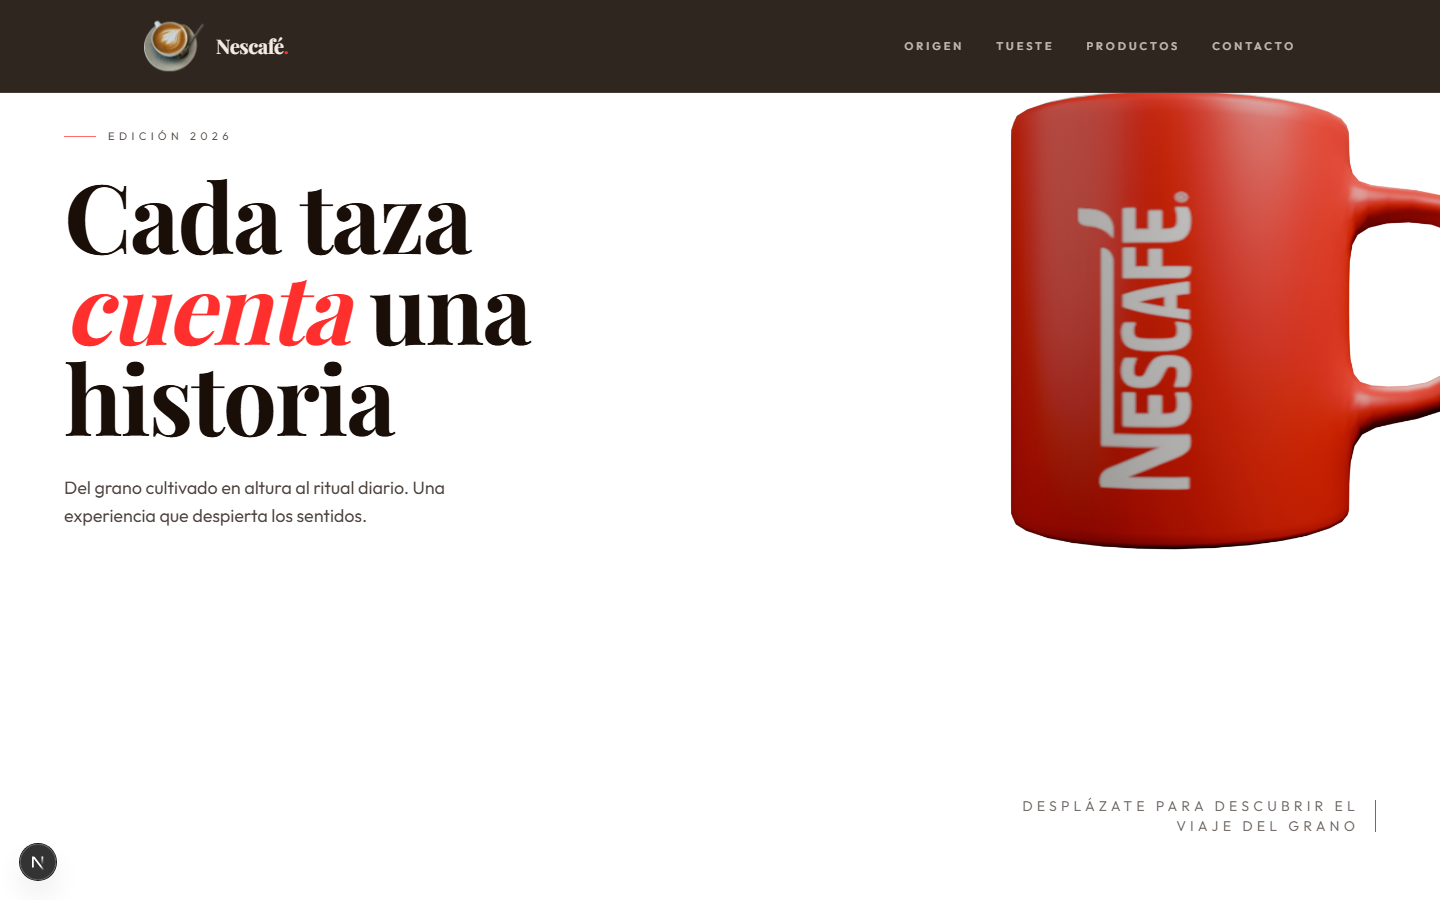
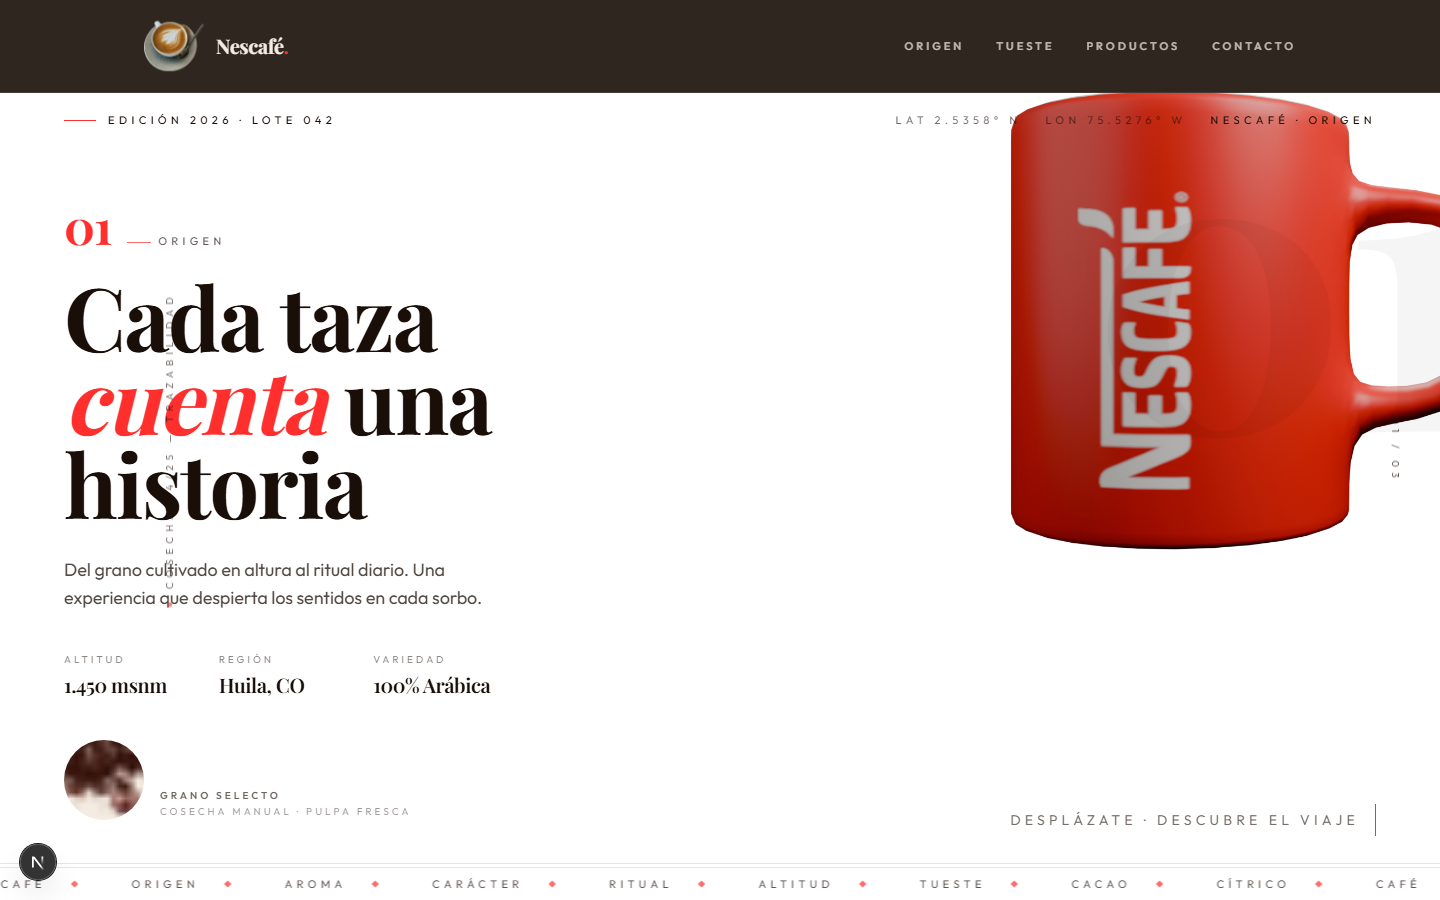
feat(hero): editorial multi-chapter layout, 30% faster
Refactor hero into 3 scroll-driven chapters (Origen/Tueste/Ritual) with
crossfade transitions. Adds meta grid per chapter, giant bg chapter
number, vertical rails, lat/lon header, infinite ticker, progress bar,
bean caption. Section height 300vh -> 210vh for faster anim. Sticky div
gets overflow-hidden (not section) to keep sticky pin working.

diff --git a/src/components/Hero.tsx b/src/components/Hero.tsx
@@ -1,32 +1,334 @@
 'use client';
 
+import Image from 'next/image';
+import { useEffect, useRef } from 'react';
 import HeroSequence from './HeroSequence';
 
+type Chapter = {
+  num: string;
+  eyebrow: string;
+  title: React.ReactNode;
+  body: string;
+  side: 'left' | 'right';
+  meta: { label: string; value: string }[];
+};
+
+const CHAPTERS: Chapter[] = [
+  {
+    num: '01',
+    eyebrow: 'Origen',
+    title: (
+      <>
+        Cada taza
+        <br />
+        <span className="italic text-[var(--accent)]">cuenta</span> una historia
+      </>
+    ),
+    body:
+      'Del grano cultivado en altura al ritual diario. Una experiencia que despierta los sentidos en cada sorbo.',
+    side: 'left',
+    meta: [
+      { label: 'Altitud', value: '1.450 msnm' },
+      { label: 'Región', value: 'Huila, CO' },
+      { label: 'Variedad', value: '100% Arábica' },
+    ],
+  },
+  {
+    num: '02',
+    eyebrow: 'Tueste',
+    title: (
+      <>
+        Tierra que <span className="italic text-[var(--accent)]">despierta</span>
+      </>
+    ),
+    body:
+      'Caficultores que respetan el suelo y el tiempo. Tueste lento, perfil pleno, carácter inconfundible.',
+    side: 'right',
+    meta: [
+      { label: 'Curva', value: '12 min' },
+      { label: 'Tueste', value: 'Medio' },
+      { label: 'Densidad', value: '720 g/l' },
+    ],
+  },
+  {
+    num: '03',
+    eyebrow: 'Ritual',
+    title: (
+      <>
+        El aroma que <span className="italic text-[var(--accent)]">queda</span>
+      </>
+    ),
+    body:
+      'Notas a cacao y caramelo, final cítrico. Cada sorbo, una pausa que enciende el día.',
+    side: 'right',
+    meta: [
+      { label: 'Cuerpo', value: 'Sedoso' },
+      { label: 'Acidez', value: 'Media' },
+      { label: 'Notas', value: 'Cacao · Cítrico' },
+    ],
+  },
+];
+
+const TICKER = [
+  'Café',
+  'Origen',
+  'Aroma',
+  'Carácter',
+  'Ritual',
+  'Altitud',
+  'Tueste',
+  'Cacao',
+  'Cítrico',
+];
+
+const smoothstep = (a: number, b: number, x: number) => {
+  const t = Math.min(1, Math.max(0, (x - a) / (b - a)));
+  return t * t * (3 - 2 * t);
+};
+
 export default function Hero() {
+  const sectionRef = useRef<HTMLElement | null>(null);
+  const chapterRefs = useRef<(HTMLDivElement | null)[]>([]);
+  const eyebrowRef = useRef<HTMLDivElement | null>(null);
+  const hintRef = useRef<HTMLDivElement | null>(null);
+  const progressBarRef = useRef<HTMLSpanElement | null>(null);
+  const progressLabelRef = useRef<HTMLSpanElement | null>(null);
+  const bgNumberRef = useRef<HTMLDivElement | null>(null);
+  const rafRef = useRef<number | null>(null);
+
+  useEffect(() => {
+    const tick = () => {
+      rafRef.current = null;
+      const section = sectionRef.current;
+      if (!section) return;
+      const rect = section.getBoundingClientRect();
+      const vh = window.innerHeight || 1;
+      const total = Math.max(rect.height - vh, 1);
+      const passed = Math.min(Math.max(-rect.top, 0), total);
+      const progress = passed / total;
+
+      const ranges: [number, number][] = [
+        [0.0, 0.34],
+        [0.34, 0.66],
+        [0.66, 1.0],
+      ];
+
+      let activeIdx = 0;
+      chapterRefs.current.forEach((el, i) => {
+        if (!el) return;
+        const [start, end] = ranges[i];
+        const span = end - start;
+        const isFirst = i === 0;
+        const isLast = i === ranges.length - 1;
+        const enter = isFirst
+          ? 1
+          : smoothstep(start, start + span * 0.3, progress);
+        const exit = isLast
+          ? 0
+          : smoothstep(end - span * 0.3, end, progress);
+        const opacity = enter * (1 - exit);
+        const ty = (1 - enter) * 24 - exit * 24;
+        el.style.opacity = String(opacity);
+        el.style.transform = `translateY(${ty}px)`;
+        el.style.pointerEvents = opacity > 0.5 ? 'auto' : 'none';
+        if (opacity > 0.5) activeIdx = i;
+      });
+
+      if (bgNumberRef.current) {
+        const ch = CHAPTERS[activeIdx];
+        if (bgNumberRef.current.dataset.num !== ch.num) {
+          bgNumberRef.current.dataset.num = ch.num;
+          bgNumberRef.current.textContent = ch.num;
+        }
+      }
+
+      if (eyebrowRef.current) {
+        eyebrowRef.current.style.opacity = String(
+          1 - smoothstep(0.0, 0.12, progress),
+        );
+      }
+      if (hintRef.current) {
+        hintRef.current.style.opacity = String(
+          1 - smoothstep(0.0, 0.18, progress),
+        );
+      }
+      if (progressBarRef.current) {
+        progressBarRef.current.style.transform = `scaleX(${progress})`;
+      }
+      if (progressLabelRef.current) {
+        progressLabelRef.current.textContent =
+          String(activeIdx + 1).padStart(2, '0') + ' / 03';
+      }
+    };
+
+    const onScroll = () => {
+      if (rafRef.current !== null) return;
+      rafRef.current = requestAnimationFrame(tick);
+    };
+    window.addEventListener('scroll', onScroll, { passive: true });
+    window.addEventListener('resize', tick);
+    tick();
+    return () => {
+      window.removeEventListener('scroll', onScroll);
+      window.removeEventListener('resize', tick);
+    };
+  }, []);
+
   return (
-    <section className="relative w-full" style={{ height: '300vh' }}>
+    <section
+      ref={sectionRef}
+      className="relative w-full"
+      style={{ height: '210vh' }}
+    >
       <HeroSequence />
-      <div className="pointer-events-none sticky top-0 z-10 flex h-screen flex-col justify-between px-6 pb-8 pt-28 sm:px-8 sm:pt-32 md:px-16 md:pb-16">
-        <div className="md:max-w-2xl">
-          <p className="flex items-center gap-3 text-[10px] uppercase tracking-[0.4em] opacity-70 sm:text-[11px]">
-            <span className="inline-block h-px w-8 bg-[var(--accent)]" />
-            Edición 2026
-          </p>
-          <h1 className="font-display mt-5 text-4xl font-bold leading-[0.95] sm:mt-6 sm:text-5xl md:text-7xl lg:text-8xl">
-            Cada taza
-            <br />
-            <span className="italic text-[var(--accent)]">cuenta</span> una historia
-          </h1>
-          <p className="mt-6 max-w-md text-sm opacity-75 sm:text-base md:mt-8 md:text-lg">
-            Del grano cultivado en altura al ritual diario. Una experiencia que
-            despierta los sentidos.
-          </p>
+
+      <div className="sticky top-0 h-screen w-full overflow-hidden">
+        {/* Giant background chapter number */}
+        <div
+          ref={bgNumberRef}
+          data-num="01"
+          aria-hidden
+          className="font-display pointer-events-none absolute -right-4 top-16 z-[1] select-none text-[28vw] font-bold leading-none text-black/[0.04] sm:-right-8 md:-right-12"
+        >
+          01
         </div>
-        <div className="hidden flex-col items-end gap-4 md:flex md:flex-row md:items-center md:justify-end">
+
+        {/* Top bar: eyebrow + meta */}
+        <div
+          ref={eyebrowRef}
+          className="pointer-events-none absolute left-6 right-6 top-24 z-20 flex items-center justify-between text-[10px] uppercase tracking-[0.4em] opacity-80 transition-opacity sm:left-8 sm:right-8 sm:top-28 sm:text-[11px] md:left-16 md:right-16"
+        >
+          <span className="flex items-center gap-3">
+            <span className="inline-block h-px w-8 bg-[var(--accent)]" />
+            Edición 2026 · Lote 042
+          </span>
+          <span className="hidden gap-6 md:flex">
+            <span className="opacity-60">Lat 2.5358° N</span>
+            <span className="opacity-60">Lon 75.5276° W</span>
+            <span>Nescafé · Origen</span>
+          </span>
+        </div>
+
+        {/* Left vertical rail */}
+        <div className="pointer-events-none absolute left-3 top-1/2 z-20 hidden -translate-y-1/2 -rotate-90 text-[10px] uppercase tracking-[0.5em] opacity-60 md:block">
+          <span className="text-[var(--accent)]">●</span>{' '}
+          Cosecha 24/25 — Trazabilidad
+        </div>
+
+        {/* Right vertical rail with progress index */}
+        <div className="pointer-events-none absolute right-3 top-1/2 z-20 hidden -translate-y-1/2 rotate-90 text-[10px] uppercase tracking-[0.5em] opacity-70 md:block">
+          <span ref={progressLabelRef}>01 / 03</span>
+        </div>
+
+        {/* Chapters */}
+        {CHAPTERS.map((ch, i) => (
+          <div
+            key={i}
+            className="pointer-events-none absolute inset-y-0 left-0 right-0 z-10 flex items-center px-6 sm:px-8 md:px-16"
+          >
+          <div
+            ref={(el) => {
+              chapterRefs.current[i] = el;
+            }}
+            className={`w-full will-change-[transform,opacity] ${
+              ch.side === 'left'
+                ? 'md:max-w-[46%]'
+                : 'md:ml-auto md:max-w-[46%] md:text-right'
+            }`}
+            style={{ opacity: 0 }}
+          >
+            <div
+              className={`flex items-baseline gap-4 ${
+                ch.side === 'right' ? 'md:justify-end' : ''
+              }`}
+            >
+              <span className="font-display text-3xl font-bold text-[var(--accent)] md:text-5xl">
+                {ch.num}
+              </span>
+              <p className="text-[10px] uppercase tracking-[0.4em] opacity-70 sm:text-[11px]">
+                <span className="inline-block h-px w-6 bg-[var(--accent)] align-middle" />{' '}
+                {ch.eyebrow}
+              </p>
+            </div>
+            <h1 className="font-display mt-5 text-4xl font-bold leading-[0.95] sm:mt-6 sm:text-5xl md:text-7xl lg:text-[5.5rem]">
+              {ch.title}
+            </h1>
+            <p
+              className={`mt-6 max-w-md text-sm opacity-75 sm:text-base md:mt-8 md:text-lg ${
+                ch.side === 'right' ? 'md:ml-auto' : ''
+              }`}
+            >
+              {ch.body}
+            </p>
+
+            {/* Meta grid */}
+            <dl
+              className={`mt-8 grid max-w-md grid-cols-3 gap-4 md:mt-10 ${
+                ch.side === 'right' ? 'md:ml-auto md:text-right' : ''
+              }`}
+            >
+              {ch.meta.map((m) => (
+                <div key={m.label}>
+                  <dt className="text-[9px] uppercase tracking-[0.3em] opacity-50 sm:text-[10px]">
+                    {m.label}
+                  </dt>
+                  <dd className="mt-1 font-display text-base font-semibold sm:text-lg md:text-xl">
+                    {m.value}
+                  </dd>
+                </div>
+              ))}
+            </dl>
+          </div>
+          </div>
+        ))}
+
+        {/* Bottom-left bean image with caption */}
+        <div className="pointer-events-none absolute bottom-16 left-6 z-10 hidden items-end gap-4 md:flex md:bottom-20 md:left-16">
+          <div className="relative h-16 w-16 overflow-hidden rounded-full bg-[var(--cream)] md:h-20 md:w-20">
+            <Image
+              src="/coffee-beans.png"
+              alt=""
+              fill
+              sizes="80px"
+              className="object-cover"
+            />
+          </div>
+          <div className="text-[10px] uppercase leading-relaxed tracking-[0.3em] opacity-70">
+            <p className="font-semibold opacity-90">Grano selecto</p>
+            <p className="opacity-60">Cosecha manual · pulpa fresca</p>
+          </div>
+        </div>
+
+        {/* Bottom hint right */}
+        <div
+          ref={hintRef}
+          className="pointer-events-none absolute bottom-12 right-6 z-20 hidden items-center gap-4 transition-opacity md:flex md:bottom-16 md:right-16"
+        >
           <p className="max-w-sm text-right text-xs uppercase tracking-[0.3em] opacity-60 md:text-sm">
-            Desplázate para descubrir el viaje del grano
+            Desplázate · descubre el viaje
           </p>
           <span className="inline-block h-8 w-px bg-[var(--accent)]" />
+        </div>
+
+        {/* Bottom ticker */}
+        <div className="pointer-events-none absolute bottom-0 left-0 right-0 z-20 overflow-hidden border-t border-black/10 bg-[var(--background)]/80 py-2 backdrop-blur-sm">
+          <div className="flex animate-[ticker_28s_linear_infinite] whitespace-nowrap text-[10px] uppercase tracking-[0.4em] opacity-70 sm:text-[11px]">
+            {[...TICKER, ...TICKER, ...TICKER].map((t, i) => (
+              <span key={i} className="mx-6 flex items-center gap-6">
+                {t}
+                <span className="text-[var(--accent)]">◆</span>
+              </span>
+            ))}
+          </div>
+        </div>
+
+        {/* Progress bar */}
+        <div className="pointer-events-none absolute bottom-9 left-0 right-0 z-20 h-px bg-black/10">
+          <span
+            ref={progressBarRef}
+            className="block h-full origin-left bg-[var(--accent)]"
+            style={{ transform: 'scaleX(0)' }}
+          />
         </div>
       </div>
     </section>

diff --git a/src/app/globals.css b/src/app/globals.css
@@ -47,6 +47,11 @@ body {
   to { background-position: -1600px center; }
 }
 
+@keyframes ticker {
+  from { transform: translateX(0); }
+  to   { transform: translateX(-33.3333%); }
+}
+
 @keyframes logo-in {
   0%   { opacity: 0; transform: translateY(-6px) scale(0.92); }
   100% { opacity: 1; transform: translateY(0)    scale(1); }
